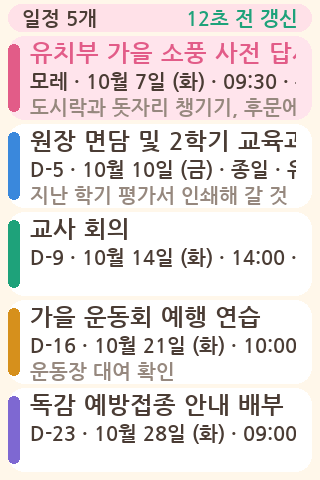
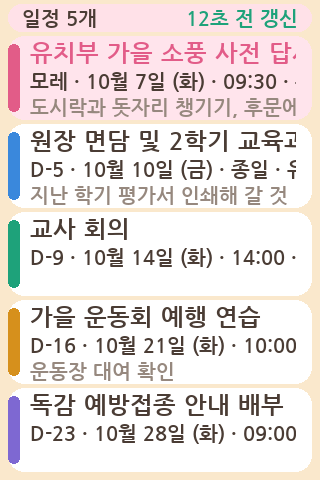
실기 사진을 보고 둘을 고쳤다 — 빈 줄을 접고, 바탕을 한 톤 내렸다
실기에 구워 보니 두 가지가 걸렸다.

1) 제목이 한 줄로 끝나고 메모가 없는 일정이라 카드 안에 흰 칸이 100px 남짓
   남았다. 줄 자리를 고정해 둔 탓이다.
   → 없는 줄은 건너뛰고 카드를 줄인다(layout()). 줄어든 만큼 이어지는 일정이
     위로 올라붙고 딱지가 도톰해진다(30 → 최대 46px) — 누르기도 그만큼 쉽다.
     줄이 다 찬 일정은 예전과 똑같은 자리다.
     카드 줄은 이제 전부 lnXxx 버퍼가 정한다 — 준비물도 lnPrep 으로 옮겼다.

2) 흰 카드와 크림 바탕이 두 단계밖에 차이가 안 나 경계가 묻혔다.
   → 바탕을 살굿빛(250,232,204)으로 내렸다.

미리보기에 줄이 적은 일정 한 장을 더 굽는다(preview/..._main_short.png).
접는 셈은 preview_godlife_jc3248.py 의 layout() 이 스케치와 같게 따라간다.

실기(같은 보드, MAC 28:84:85:49:59:30): 부팅 루프 없음 · 한글 폰트 OK ·
무선 → HTTPS 조회 5건 · 5분 주기 갱신 두 번 · 무동작 5분 화면 끄기 · 터치로
넘기기와 목록까지 정상. 여유 힙 223,740B 로 갈아입히기 전과 제자리다.

컴파일 3,392,806B(앱 칸 4MB) · 전역 64,856B.

Changed region(s): [[0.0, 0.0, 1.0, 1.0]]

diff --git a/tools/preview_godlife_jc3248.py b/tools/preview_godlife_jc3248.py
@@ -10,6 +10,7 @@
 
 출력:
     preview/godlife_jc3248_main.png      본화면
+    preview/godlife_jc3248_main_short.png 줄이 적은 일정(빈 줄을 접은 모습)
     preview/godlife_jc3248_list.png      목록 화면
     preview/godlife_jc3248_marquee.gif   마퀴가 흐르는 본화면
 
@@ -32,13 +33,11 @@ Y_TOP,   H_TOP   = 0,   36     # 상태 알약
 Y_HERO,  H_HERO  = 40,  108    # 시각 카드 (큰 시각 + 날짜 줄)
 Y_BIG,   H_BIG   = 40,  76
 Y_META,  H_META  = 116, 32
-Y_CARD,  H_CARD  = 152, 176    # 일정 카드 (제목2 · 딱지 · 메모2 · 준비물)
-Y_TITLE, H_TITLE = 152, 32
-Y_SUB,   H_SUB   = 216, 28
-Y_MEMO,  H_MEMO  = 244, 26
-Y_PREP,  H_PREP  = 296, 32
-Y_NEXT,  H_NEXT  = 332, 26     # '이어지는 일정' 소제목
-Y_FOOT,  H_FOOT  = 358, 30     # 이어지는 일정 네 줄
+Y_CARD           = 152         # 일정 카드가 시작하는 곳
+H_TITLE, H_SUB   = 32, 28      # 카드 안 줄 높이
+H_MEMO,  H_PREP  = 26, 32
+H_NEXT           = 26          # '이어지는 일정' 소제목
+H_FOOT_MIN, H_FOOT_MAX = 30, 46
 SCHEDULE_LIMIT   = 4
 
 X_PAD, X_CW = 8, 304           # 카드 자리 (8..312)
@@ -55,7 +54,7 @@ H_LIST_CARD                  = H_LIST_T + H_LIST_M + H_LIST_X   # 84
 H_LIST_BLOCK                 = H_LIST_CARD + 4                  # 88 × 5 = 440
 
 # ── 크레용 상자 ───────────────────────────────────────────────────
-COL_BG    = (255, 247, 234)
+COL_BG    = (250, 232, 204)
 COL_BAR   = (255, 225, 232)
 COL_CARD  = (255, 255, 255)
 COL_TXT   = ( 74,  60,  52)
@@ -84,6 +83,14 @@ NEXT = {
     "sub": "유치원 · 준비물 2/3",
     "memo": "도시락과 돗자리 챙기기, 후문에서 하차하고 정문으로 모일 것",
     "prep": "● 돗자리  ● 물통  ○ 도시락",
+}
+NEXT_SHORT = {          # 줄이 적은 일정 — 빈 줄을 접어 카드가 짧아진다
+    "title": "7세반 송암미술관 견학",
+    "label": "유치원", "big": "09.22", "dday": "모레",
+    "when": "9월 22일 (화)", "remain": "1일 11시간 뒤",
+    "sub": "유치원 · 종일 · 준비물 0/2",
+    "memo": "",
+    "prep": "○ 체육복  ○ 운동화",
 }
 FOLLOWING = [
     ("D-5",  "10/10(금) 종일  원장 면담 및 2학기 교육과정 점검"),
@@ -251,6 +258,20 @@ def draw_row(img, y, h, page, boxes, segs, t_ms):
             font.draw(img, text, x0, y_mid, color, clip)
 
 
+def layout(lines):
+    """스케치의 layout() 과 같다 — 빈 줄을 접은 카드 높이와 아래쪽 자리."""
+    t0, t1, sub, m0, m1, prep = lines
+    h = H_TITLE
+    if t1:   h += H_TITLE
+    if sub:  h += H_SUB
+    if m0:   h += H_MEMO
+    if m1:   h += H_MEMO
+    if prep: h += H_PREP
+    y_next = Y_CARD + h + 4
+    y_foot = y_next + H_NEXT
+    return h, y_next, y_foot, max(H_FOOT_MIN, min(H_FOOT_MAX, (H - 2 - y_foot) // SCHEDULE_LIMIT))
+
+
 def status_row(img, f, left, t_ms):
     draw_row(img, Y_TOP, H_TOP, COL_BG, [(COL_BAR, X_PAD, 4, X_CW, 28, 14)], [
         (f["body"], left, X_TL, 170, COL_TXT, "L"),
@@ -259,7 +280,8 @@ def status_row(img, f, left, t_ms):
 
 
 # ══════════════════════════════════════════════════════════════════
-def render_main(f, t_ms, cursor=0):
+def render_main(f, t_ms, cursor=0, item=None):
+    item = item or NEXT
     body, title, n34, n64 = f["body"], f["title"], f["n34"], f["n64"]
     img = Image.new("RGB", (W, H), COL_BG)
     light, dark = CRAYON[cursor % len(CRAYON)]
@@ -270,41 +292,53 @@ def render_main(f, t_ms, cursor=0):
     hero = (COL_CARD, X_PAD, Y_HERO, X_CW, H_HERO, 18)
     draw_row(img, Y_BIG, H_BIG, COL_BG,
              [hero, (dark, X_DD, Y_BIG + (H_BIG - 48) // 2, W_DD, 48, 24)], [
-                 (n64, NEXT["big"], X_BIG, X_DD - 4, COL_ACC, "L"),
-                 (n34, NEXT["dday"], X_DD, X_DD + W_DD, COL_WHITE, "C"),
+                 (n64, item["big"], X_BIG, X_DD - 4, COL_ACC, "L"),
+                 (n34, item["dday"], X_DD, X_DD + W_DD, COL_WHITE, "C"),
              ], t_ms)
 
-    rm_w = body.width(NEXT["remain"]) + 22
+    rm_w = body.width(item["remain"]) + 22
     draw_row(img, Y_META, H_META, COL_BG,
              [hero, (light, X_TR - rm_w, Y_META + 3, rm_w, H_META - 6, 13)], [
-                 (body, NEXT["when"], X_TL, X_TR - rm_w - 8, COL_TXT, "L"),
-                 (body, NEXT["remain"], X_TR - rm_w, X_TR, dark, "C"),
+                 (body, item["when"], X_TL, X_TR - rm_w - 8, COL_TXT, "L"),
+                 (body, item["remain"], X_TR - rm_w, X_TR, dark, "C"),
              ], t_ms)
 
-    # ── 일정 카드: 제목 두 줄 · 딱지 · 메모 두 줄 · 준비물 ──
-    card = (COL_CARD, X_PAD, Y_CARD, X_CW, H_CARD, 18)
-    tab  = (dark, X_PAD, Y_CARD + 8, 12, H_CARD - 16, 6)     # 왼쪽 크레용 띠
-    t0, t1 = fold_two(title, NEXT["title"], X_CR - X_CL)
-    m0, m1 = fold_two(body, NEXT["memo"], X_CR - X_CL)
-    sub_w = body.width(NEXT["sub"]) + 22
+    # ── 일정 카드: 빈 줄은 건너뛴다 — 그만큼 카드가 짧아진다 ──
+    t0, t1 = fold_two(title, item["title"], X_CR - X_CL)
+    m0, m1 = fold_two(body, item["memo"], X_CR - X_CL)
+    h_card, y_next, y_foot, h_foot = layout((t0, t1, item["sub"], m0, m1, item["prep"]))
 
-    draw_row(img, Y_TITLE,           H_TITLE, COL_BG, [card, tab],
+    card = (COL_CARD, X_PAD, Y_CARD, X_CW, h_card, 18)
+    tab  = (dark, X_PAD, Y_CARD + 8, 12, h_card - 16, 6)     # 왼쪽 크레용 띠
+    cy = Y_CARD
+
+    draw_row(img, cy, H_TITLE, COL_BG, [card, tab],
              [(title, t0, X_CL, X_CR, COL_TXT, "L")], t_ms)
-    draw_row(img, Y_TITLE + H_TITLE, H_TITLE, COL_BG, [card, tab],
-             [(title, t1, X_CL, X_CR, COL_TXT, "L")], t_ms)
-    draw_row(img, Y_SUB, H_SUB, COL_BG,
-             [card, tab, (light, X_CL, Y_SUB + 2, sub_w, H_SUB - 4, 12)],
-             [(body, NEXT["sub"], X_CL + 11, X_CL + sub_w - 11, dark, "L")], t_ms)
-    draw_row(img, Y_MEMO,           H_MEMO, COL_BG, [card, tab],
-             [(body, m0, X_CL, X_CR, COL_DIM, "L")], t_ms)
-    draw_row(img, Y_MEMO + H_MEMO,  H_MEMO, COL_BG, [card, tab],
-             [(body, m1, X_CL, X_CR, COL_DIM, "L")], t_ms)
-    draw_row(img, Y_PREP, H_PREP, COL_BG,
-             [card, tab, (COL_PREP_BG, X_CL - 6, Y_PREP + 3, X_CR - X_CL + 12, H_PREP - 6, 13)],
-             [(body, NEXT["prep"], X_CL, X_CR, COL_PREP_TX, "L")], t_ms)
+    cy += H_TITLE
+    if t1:
+        draw_row(img, cy, H_TITLE, COL_BG, [card, tab],
+                 [(title, t1, X_CL, X_CR, COL_TXT, "L")], t_ms)
+        cy += H_TITLE
+    if item["sub"]:
+        sub_w = min(body.width(item["sub"]) + 22, X_CR - X_CL)
+        draw_row(img, cy, H_SUB, COL_BG,
+                 [card, tab, (light, X_CL, cy + 2, sub_w, H_SUB - 4, 12)],
+                 [(body, item["sub"], X_CL + 11, X_CL + sub_w - 11, dark, "L")], t_ms)
+        cy += H_SUB
+    for mo in (m0, m1):
+        if not mo:
+            continue
+        draw_row(img, cy, H_MEMO, COL_BG, [card, tab],
+                 [(body, mo, X_CL, X_CR, COL_DIM, "L")], t_ms)
+        cy += H_MEMO
+    if item["prep"]:
+        draw_row(img, cy, H_PREP, COL_BG,
+                 [card, tab, (COL_PREP_BG, X_CL - 6, cy + 3, X_CR - X_CL + 12, H_PREP - 6, 13)],
+                 [(body, item["prep"], X_CL, X_CR, COL_PREP_TX, "L")], t_ms)
+        cy += H_PREP
 
     # ── 이어지는 일정 ──
-    draw_row(img, Y_NEXT, H_NEXT, COL_BG, [(dark, 14, Y_NEXT + H_NEXT // 2 - 4, 8, 8, 4)], [
+    draw_row(img, y_next, H_NEXT, COL_BG, [(dark, 14, y_next + H_NEXT // 2 - 4, 8, 8, 4)], [
         # 둘 다 고정이라 흐르면 안 된다 — 칸이 글보다 넓어야 한다
         # ("이어지는 일정 없음" 164px < 168 · "눌러서 넘김 ▶" 126px < 130)
         (body, "이어지는 일정", 28, 168, COL_DIM, "L"),
@@ -313,11 +347,11 @@ def render_main(f, t_ms, cursor=0):
 
     for i in range(SCHEDULE_LIMIT):
         dd, rest = FOLLOWING[i] if i < len(FOLLOWING) else ("", "")
-        y = Y_FOOT + i * H_FOOT
+        y = y_foot + i * h_foot
         lt, dk = CRAYON[(cursor + 1 + i) % len(CRAYON)]
-        boxes = [] if not dd else [(lt, X_PAD, y + 2, X_CW, H_FOOT - 4, 13),
-                                   (dk, X_FDD, y + 5, W_FDD, H_FOOT - 10, 10)]
-        draw_row(img, y, H_FOOT, COL_BG, boxes, [
+        boxes = [] if not dd else [(lt, X_PAD, y + 2, X_CW, h_foot - 4, 13),
+                                   (dk, X_FDD, y + 5, W_FDD, h_foot - 10, 10)]
+        draw_row(img, y, h_foot, COL_BG, boxes, [
             (body, dd, X_FDD, X_FDD + W_FDD, COL_WHITE, "C"),
             (body, rest, X_FTX, 306, COL_TXT, "L"),
         ], t_ms)
@@ -367,8 +401,9 @@ def main():
     os.makedirs(out, exist_ok=True)
 
     render_main(f, 0).save(os.path.join(out, "godlife_jc3248_main.png"))
+    render_main(f, 0, 1, NEXT_SHORT).save(os.path.join(out, "godlife_jc3248_main_short.png"))
     render_list(f, 0).save(os.path.join(out, "godlife_jc3248_list.png"))
-    print("▶ preview/godlife_jc3248_main.png · godlife_jc3248_list.png")
+    print("▶ preview/godlife_jc3248_main.png · _main_short.png · _list.png")
 
     # 색을 64 가지로 줄여 굽는다 — 글자 테두리(안티에일리어싱) 말고는 색이 몇 안 되고,
     # 줄이지 않으면 320×480 × 50장이 800KB 를 넘어 저장소에 무겁다.

diff --git a/GodlifeScheduleNext_JC3248/README.md b/GodlifeScheduleNext_JC3248/README.md
@@ -36,7 +36,7 @@
  │┃및 준비 모임                     │ ┃ 왼쪽 띠가 이 일정의 크레용 색
  │┃(유치원 · 준비물 2/3)            │ 기관 · 종일 · 준비물 개수 — 딱지
  │┃도시락과 돗자리 챙기기, 후문에서 │ 메모 — 두 줄로 접는다
- │┃하차하고 정문으로 모일 것        │
+ │┃하차하고 정문으로 모일 것        │ 빈 줄은 접는다 → 카드가 줄어든다
  │┃[● 돗자리  ● 물통  ○ 도시락]     │ 준비물 이름 — 연민트 띠 위에
  ╰┸─────────────────────────────────╯
  ● 이어지는 일정     눌러서 넘김 ▶
@@ -61,10 +61,18 @@
 - **D-day 를 말로 적는다** — "D-2" 대신 `오늘 · 내일 · 모레 · D-5`. 34px 숫자 폰트에
   한글 여섯 자(오늘내일모레)를 같이 구웠다. 6KB 늘었다.
 - **준비물 줄에 연민트 띠** — 개수(2/3)는 제목 아래 딱지에, 이름은 이 띠 위에 적는다.
+- **빈 줄은 접는다** — 제목이 한 줄로 끝나거나 메모가 없는 일정이 흔하다. 자리를
+  고정해 두면 그만큼 흰 칸이 남아서, 없는 줄은 건너뛰고 카드를 줄인다(`layout()`).
+  줄어든 만큼 이어지는 일정이 위로 올라붙고 **딱지가 도톰해진다**(30→최대 46px) —
+  누르기도 그만큼 쉬워진다. 줄이 다 찬 일정은 예전과 똑같은 자리다.
 - **둥근 네모는 `Box` 하나로 적는다**(`ScheduleTypes.h`). 카드처럼 여러 줄에 걸친
   것도 그대로 적어 줄마다 같이 넘기면, 줄을 그릴 때 **그 줄 몫만 잘려 칠해져서**
   이어 붙으면 한 장이 된다(`drawRow` 의 자를 칸). 줄 단위로만 다시 그리는 구조를
   그대로 두고 카드를 얹는 방법이다.
+
+줄이 적은 일정은 이렇게 접힌다 — 카드가 짧아지고 딱지가 도톰해진다.
+
+![줄이 적은 일정](../preview/godlife_jc3248_main_short.png)
 
 목록 화면(`SCR_LIST`)도 한 줄이 아니라 **일정마다 세 줄**(제목·때·메모)로 적는다.
 
@@ -173,7 +181,7 @@ arduino-cli lib install "GFX Library for Arduino" "ArduinoJson"
 ./tools/make-fonts.sh
 ```
 
-현재 크기: 플래시 3,392,710B(3.39MB) · 앱 칸 4MB / 전역 64,616B.
+현재 크기: 플래시 3,392,806B(3.39MB) · 앱 칸 4MB / 전역 64,856B.
 
 ## 미리보기 만들기
 
@@ -184,7 +192,7 @@ python3 tools/preview_godlife_jc3248.py
 ```
 
 스케치와 같은 좌표·색·규칙으로 `preview/godlife_jc3248_main.png` ·
-`godlife_jc3248_list.png` · `godlife_jc3248_marquee.gif` 를 만들고, 어느 줄이 넘쳐서
+`_main_short.png`(줄이 적은 일정) · `_list.png` · `_marquee.gif` 를 만들고, 어느 줄이 넘쳐서
 흐르는지 표로 찍어 준다. 글자는 **보드에 들어가는 것과 같은 VLW 를 그 자리에서 구워**
 알파 비트맵을 그대로 얹는다 — 줄 접힘과 넘침 판정이 실기와 같다.
 
@@ -230,6 +238,34 @@ QSPI 로 33ms 마다 미는** 구조라 클럭을 내리면 미는 속도부터 
   두 번으로 세어지지도 않았다(JC3245 판에서 겪은 문제다. 껍데기의 60ms 유지 + 본체의
   250ms 잠금이 그대로 듣는다)
 
+### 크레용 판으로 갈아입히고 다시 (같은 날)
+
+새 생김새(3,392,806B · 전역 64,856B)를 같은 보드에 구웠다.
+
+```
+=== GodlifeScheduleNext (JC3248W535) 시작 ===
+한글 폰트=OK  여유 힙=279844  PSRAM=8047544
+.....................
+무선 연결됨  ip=192.168.0.3  여유 힙=229948 B
+[요청] 일정 5건  다음=7세반 송암미술관 견학  (여유 힙 223740 B)
+[화면] 무동작 — 끔
+[터치] 다음 → 본화면 1 … 4 → 목록 0 → [터치] 목록 1 → 본화면
+```
+
+- **부팅 루프 없다.** 둥근 네모를 가로줄로 직접 칠하는 `fillRoundRect` 와 줄마다
+  카드를 잘라 칠하는 그림이 QSPI 자물쇠와 부딪히지 않는다
+- 여유 힙 223,740B — 갈아입히기 전(224,344B)과 사실상 같다. 카드와 알약은 힙을 쓰지 않는다
+- **5분 주기 갱신** 두 번 더 확인(227,840 → 227,472B, 제자리)
+- **무동작 5분 뒤 화면 끄기** 확인 — `[화면] 무동작 — 끔`
+- 터치로 일정 넘기기 · 목록 · 목록에서 고르기까지 정상
+
+실물 사진에서 **두 가지를 고쳤다.**
+
+1. 제목이 한 줄로 끝나고 메모가 없는 일정이라 카드 안에 흰 칸이 100px 남짓 남았다
+   → 빈 줄을 접어 카드를 줄이고(`layout()`) 딱지를 도톰하게(최대 46px) 했다
+2. 흰 카드와 크림 바탕이 두 단계밖에 차이가 안 나 경계가 묻혔다
+   → 바탕을 살굿빛(250,232,204)으로 한 톤 내렸다
+
 ### 겪은 문제
 
 **켜자마자 부팅 루프.** 첫 판은 화면을 그리기도 전에 죽었다.
@@ -249,12 +285,19 @@ assert failed: spi_device_polling_end spi_master.c:1476 (host->cur_cs == handle-
 > 거기서는 `flushNow()` 를 쓰지 않아 아직 드러나지 않았지만, 화면을 끄고 켜는
 > `writecommand()` 는 같은 자리에 있다 — 딥슬립을 켠 기기에서 터질 수 있다.
 
+**로그가 통째로 사라진다.** 두 번째로 구운 뒤 `무선 연결됨` 다음에 조회 줄이 한참
+올라오지 않아 죽은 줄 알았다. 기기는 멀쩡했다 — 그 사이 누른 터치 로그가 올라왔고
+목록에 일정 5건이 들어 있었다. `Serial.setTxTimeoutMs(0)`(맨 위 주석) 때문에 CDC
+버퍼가 차 있는 순간의 줄은 기다리지 않고 버려진다. **로그가 안 보인다고 죽은 것이
+아니다** — 터치 한 번 해 보고 그 로그가 올라오는지부터 볼 것.
+
+또 `fetchSchedule()` 은 무선이 끊겼거나 `http.begin()` 이 실패하면 아무것도 찍지
+않고 돌아선다(화면에는 적는다). 그 두 갈래는 로그만으로는 조용하다.
+
 ## 아직 확인하지 못한 것
 
-1. **새 생김새의 실물** — 크림빛 바탕과 크레용 색이 3.5" 에서 어떻게 보이는지.
-   특히 흰 카드와 크림 바탕의 차이가 옅어 경계가 묻히지는 않는지(로그로는 알 수 없다)
-2. **이어지는 일정 딱지 터치** — 딱지를 눌러 그 일정으로 건너뛰는 것. 딱지가 30px 이라
-   얇을 수 있다(누르는 칸은 줄 전체라 30px 은 다 받는다)
+1. **고친 뒤의 실물** — 살굿빛 바탕에서 흰 카드가 갈라져 보이는지, 접힌 카드와
+   도톰해진 딱지가 어떤지. 사진 한 장이면 된다(로그로는 알 수 없다)
+2. **이어지는 일정 딱지 터치** — 딱지를 눌러 그 일정으로 건너뛰는 것.
+   지금까지 올라온 터치 로그는 넘기기·목록뿐이라 이 갈래만 아직 안 밟혔다
 3. **밀리는 속도** — 마퀴가 흐르는 동안 300KB 를 33ms 마다 민다. 느리면 태스크 주기를 늘린다
-4. **무동작 5분 뒤 화면 끄기** — `DISPOFF` 뒤 터치로 깨어나 `DISPON` 으로 멀쩡히 돌아오는지.
-   자물쇠를 넣은 자리라 여기가 남은 것 중 가장 볼 만하다
